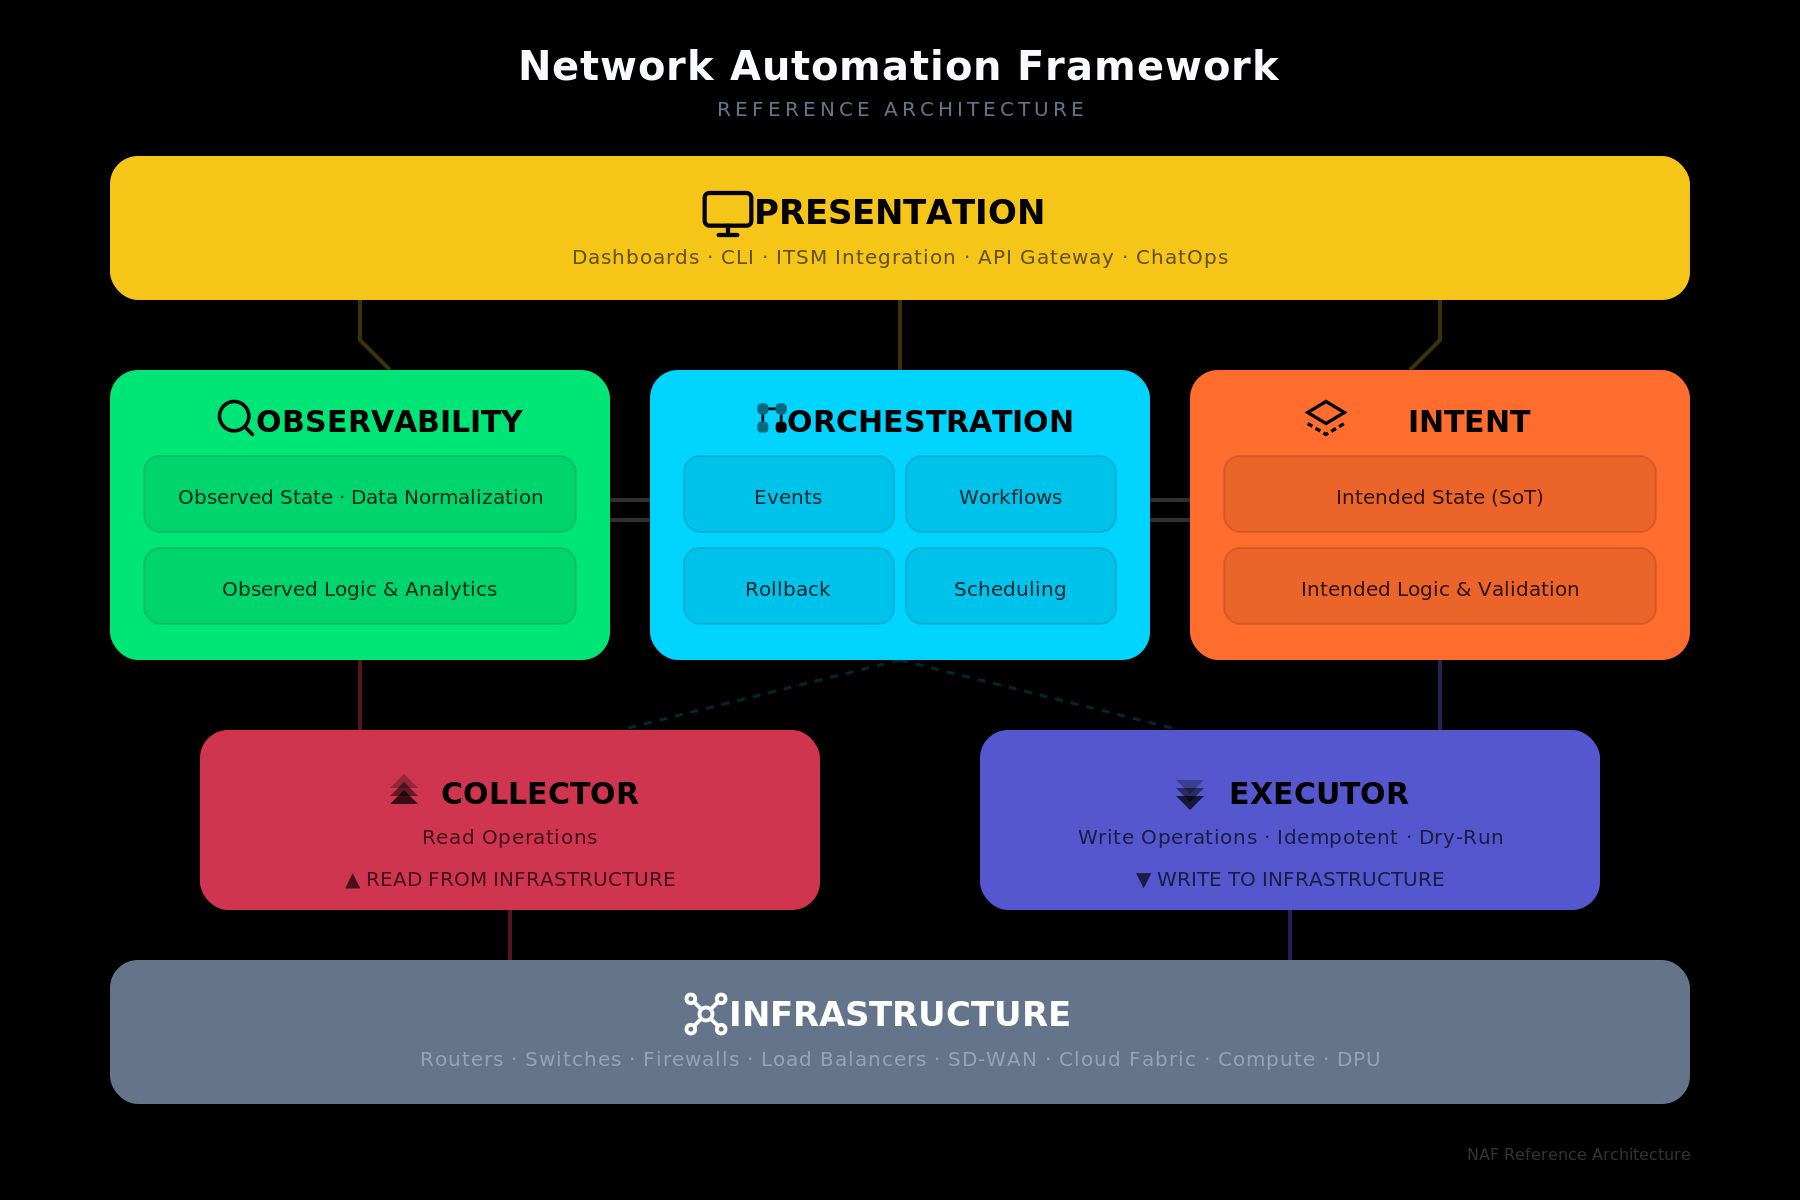
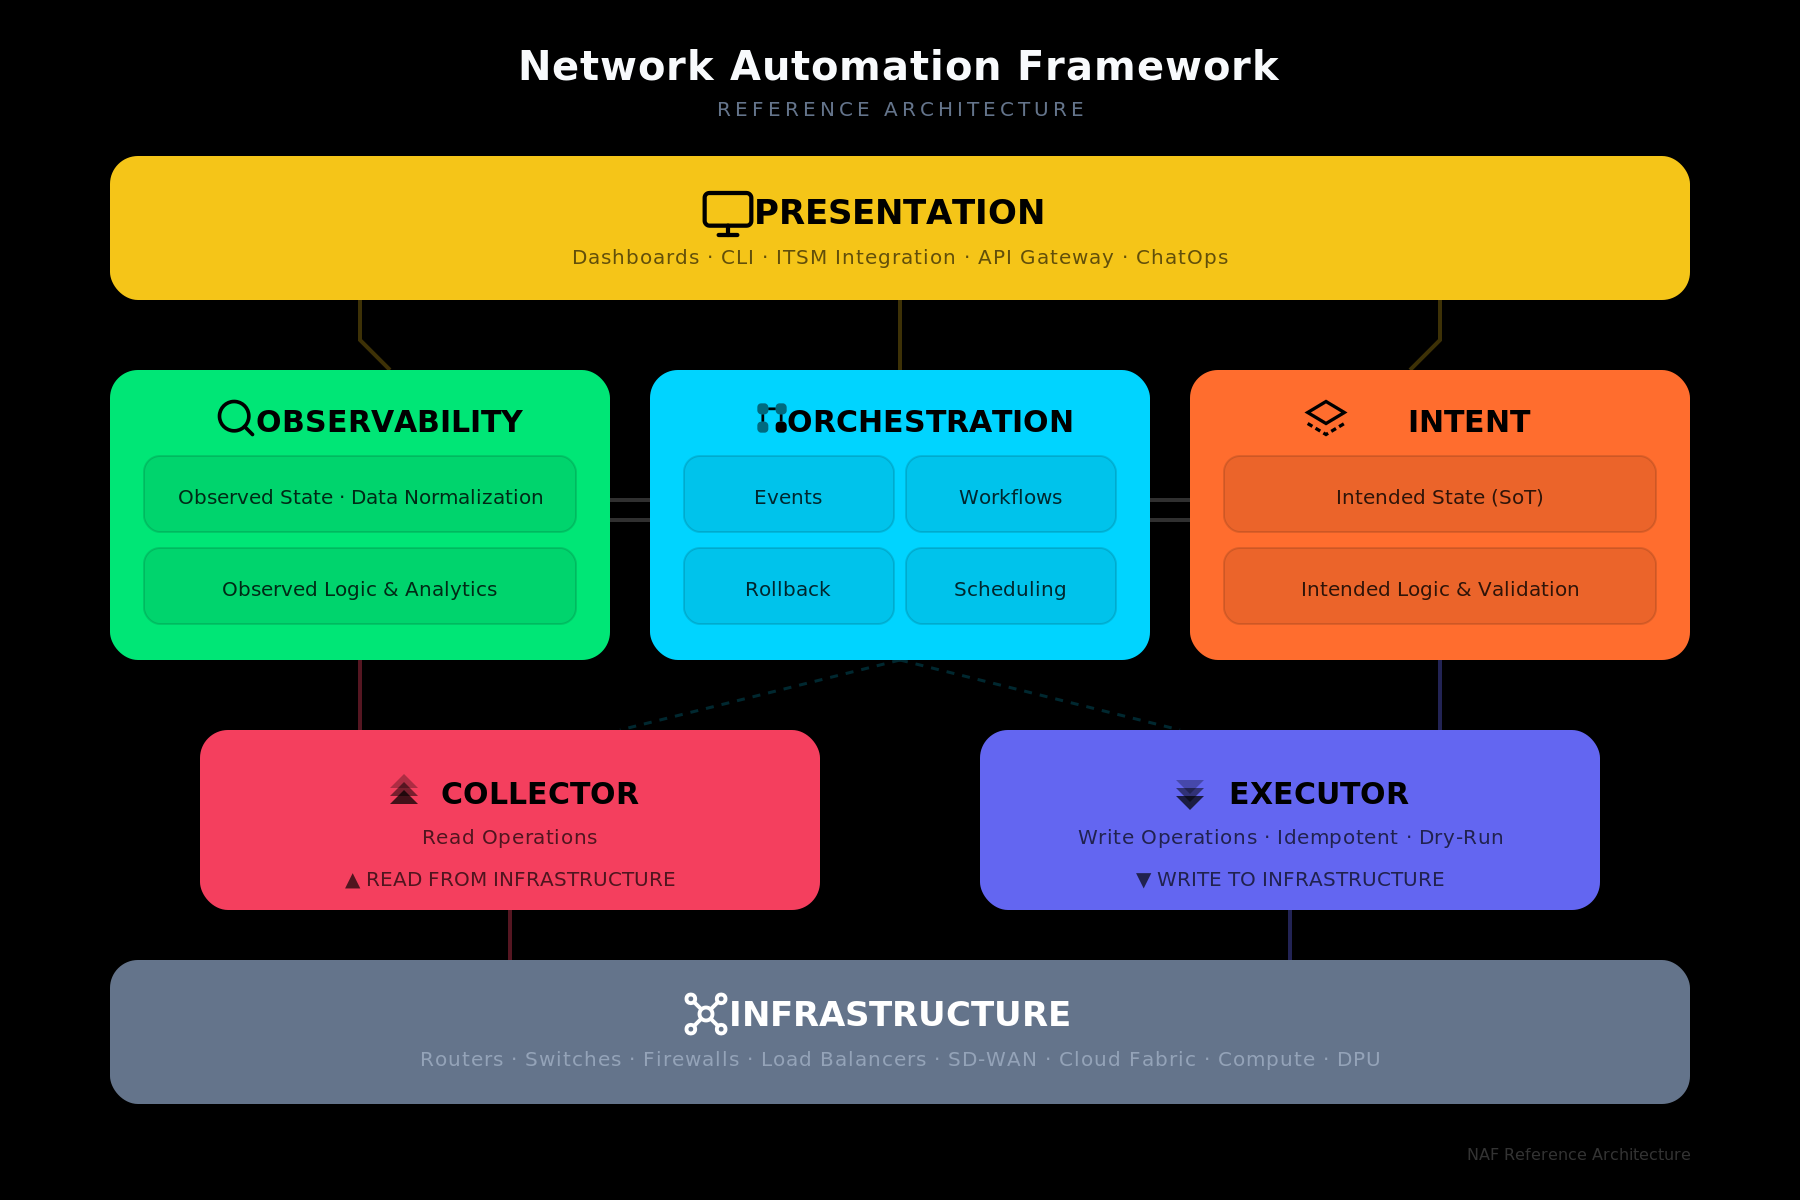
Remove opacity

Changed region(s): [[0.0933, 0.5858, 0.4667, 0.7708], [0.5289, 0.5858, 0.9022, 0.7708]]

diff --git a/docs/Framework/brand-guidelines.md b/docs/Framework/brand-guidelines.md
@@ -25,10 +25,10 @@ Each building block has a dedicated color. All seven blocks use distinct hues fo
 
 | Building Block | Color Name | Hex | RGB | Usage Notes |
 |---|---|---|---|---|
-| **Presentation** | NAF Yellow | `#f5c518` | 245, 197, 24 | Full opacity. Top-level layer. |
-| **Observability** | Vivid Green | `#00e676` | 0, 230, 118 | Full opacity. Read-side logic. |
-| **Orchestration** | Electric Cyan | `#00d4ff` | 0, 212, 255 | Full opacity. Central coordination. |
-| **Intent** | Hot Orange | `#ff6d2e` | 255, 109, 46 | Full opacity. Write-side logic. |
+| **Presentation** | NAF Yellow | `#f5c518` | 245, 197, 24 | Top-level layer. |
+| **Observability** | Vivid Green | `#00e676` | 0, 230, 118 | Read-side logic. |
+| **Orchestration** | Electric Cyan | `#00d4ff` | 0, 212, 255 | Central coordination. |
+| **Intent** | Hot Orange | `#ff6d2e` | 255, 109, 46 | Write-side logic. |
 | **Collector** | Rose Red | `#F43F5E` | 244, 63, 94 | Transport layer — read side. |
 | **Executor** | Indigo | `#6366F1` | 99, 102, 241 | Transport layer — write side. |
 | **Infrastructure** | Slate Gray | `#64748b` | 100, 116, 139 | Bottom layer. Neutral anchor. |
@@ -235,13 +235,13 @@ Add subtle horizontal connector lines between adjacent middle blocks (double lin
 LAYER 3 — Two narrower blocks (~310px each, height 90px, rx=14), centered under their parent:
 
 Left — COLLECTOR:
-- Color: #F43F5E at 85% opacity (rgba(244,63,94,0.85))
+- Color: #F43F5E (Rose Red)
 - Icon: Three stacked upward chevrons at increasing opacity (0.4, 0.7, 1.0), filled black
 - Title: "COLLECTOR" in 15px bold black
 - Sub-text: "Read Operations" and "▲ READ FROM INFRASTRUCTURE" in 10px
 
 Right — EXECUTOR:
-- Color: #6366F1 at 85% opacity (rgba(99,102,241,0.85))
+- Color: #6366F1 (Indigo)
 - Icon: Three stacked downward chevrons at increasing opacity (0.4, 0.7, 1.0), filled black
 - Title: "EXECUTOR" in 15px bold black
 - Sub-text: "Write Operations · Idempotent · Dry-Run" and "▼ WRITE TO INFRASTRUCTURE" in 10px
@@ -296,10 +296,10 @@ Here are the 7 icons and their colors:
 4. INTENT (color: #ff6d2e)
    Diamond/prism icon: A closed diamond path "M12 3L2 9l10 6 10-6-10-6z" with a dashed lower layer "M2 15l10 6 10-6". Stroke-based, no fill.
 
-5. COLLECTOR (color: rgba(244,63,94,0.85))
+5. COLLECTOR (color: #F43F5E)
    Upward chevrons: Three "V" shapes pointing up — "M5 10l7-7 7 7" at opacity 0.4, "M5 14l7-7 7 7" at 0.7, "M5 18l7-7 7 7" at 1.0. Filled black.
 
-6. EXECUTOR (color: rgba(99,102,241,0.85))
+6. EXECUTOR (color: #6366F1)
    Downward chevrons: Three inverted "V" shapes pointing down — "M5 6l7 7 7-7" at opacity 0.4, "M5 10l7 7 7-7" at 0.7, "M5 14l7 7 7-7" at 1.0. Filled black.
 
 7. INFRASTRUCTURE (color: #64748b)
